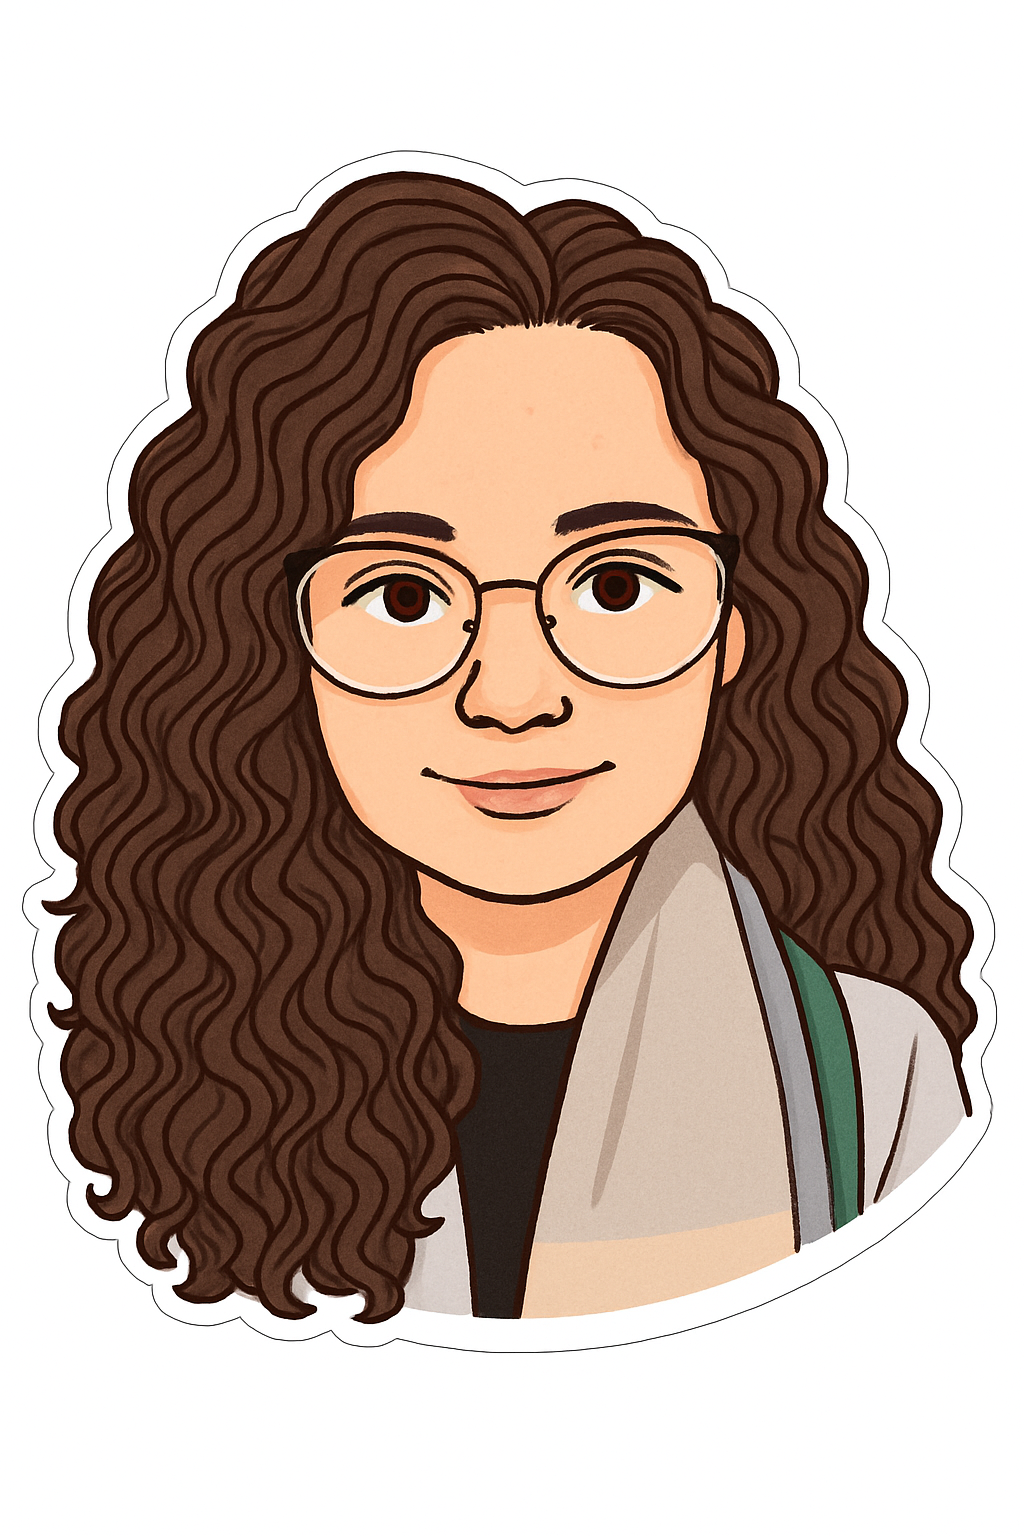
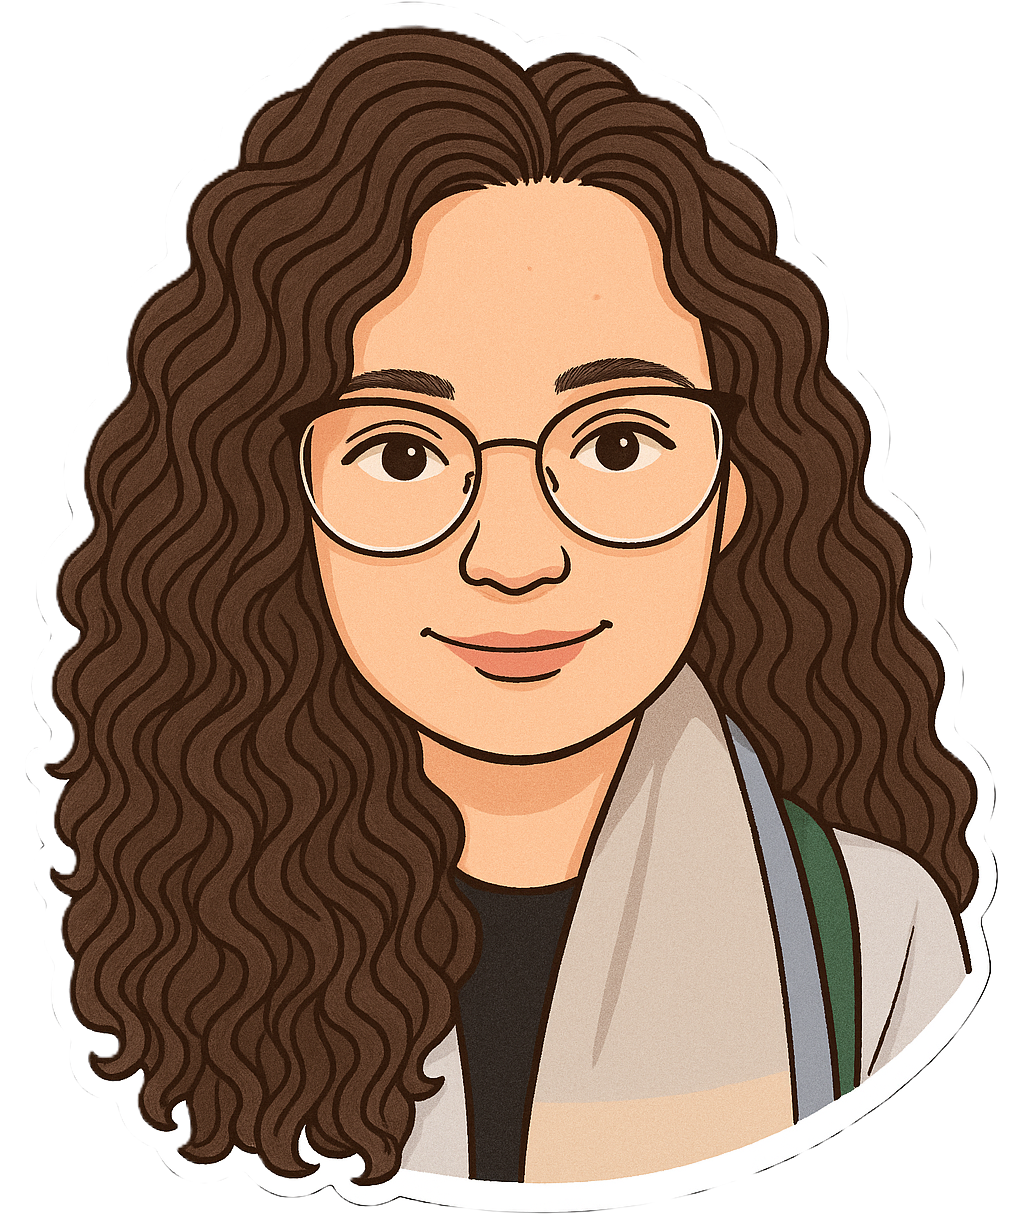
feat: add general css

diff --git a/index.html b/index.html
@@ -11,23 +11,27 @@
       <nav></nav>
     </header>
     <main>
-      <section id="picture">
+      <section id="picture" class="flex-container">
         <h1>Alessya Tkachenko, Ph.D.</h1>
-        <img src="images/picture.png" alt="My avatar generated by ChatGPT" />
+        <img
+          id="my-photo"
+          src="images/picture.png"
+          alt="My avatar generated by ChatGPT"
+        />
       </section>
       <section id="contacts">
         <h2 class="heading-small">Contacts</h2>
         <ul class="list">
           <li>
-            <img src="images/telegram.svg" alt="telegram icon" /><a
-              href="https://t.me/Berserk_bat"
-              >@Berserk_bat</a
+            <a class="contact-link" href="https://t.me/Berserk_bat">
+              <img class="icon" src="images/telegram.svg" alt="telegram icon" />
+              @Berserk_bat</a
             >
           </li>
           <li>
-            <img src="images/envelope.svg" alt="e-mail icon" /><a
-              href="mailto:tkachenko.alessya@gmail.com"
-              >tkachenko.alessya@gmail.com</a
+            <a class="contact-link" href="mailto:tkachenko.alessya@gmail.com"
+              ><img class="icon" src="images/envelope.svg" alt="e-mail icon" />
+              tkachenko.alessya@gmail.com</a
             >
           </li>
         </ul>
@@ -96,12 +100,13 @@
       </section>
     </main>
     <footer>
-      <a href="https://github.com/BerserkBat"
-        ><img src="images/github.svg" alt="GitHub logo" />My GitHub</a
+      <a class="contact-link" href="https://github.com/BerserkBat"
+        ><img class="icon" src="images/github.svg" alt="GitHub logo" />My
+        GitHub</a
       >
       <p>2025</p>
       <a href="https://rs.school/courses/javascript-ru">
-        <img src="images/rs-school-logo.svg" />
+        <img class="rs-logo" src="images/rs-school-logo.svg" />
       </a>
     </footer>
   </body>

diff --git a/style.css b/style.css
@@ -1,0 +1,96 @@
+@import url("https://fonts.googleapis.com/css2?family=Funnel+Sans:ital,wght@0,300..800;1,300..800&display=swap");
+
+body,
+p,
+div,
+section,
+a,
+img,
+header,
+footer,
+h1,
+h2,
+ul,
+li,
+nav {
+  padding: 0;
+  margin: 0;
+  font-family: "Funnel Sans", sans-serif;
+  font-style: normal;
+}
+
+a {
+  display: inline-block;
+}
+
+header,
+footer {
+  width: 100%;
+  height: 100px;
+  background-color: #b33951;
+  display: flex;
+  align-items: center;
+  gap: 50px;
+  justify-content: center;
+}
+
+main {
+  width: 900px;
+  margin: auto;
+  background-color: white;
+  padding: 30px 0;
+}
+
+#my-photo {
+  width: 200px;
+  height: auto;
+}
+
+.flex-container {
+  display: flex;
+  align-items: center;
+  gap: 100px;
+}
+
+h1 {
+  color: #b33951;
+  font-size: 50px;
+}
+
+h2 {
+  color: #b33951;
+  font-size: 40px;
+  width: 100%;
+  border-bottom: #b33951 2px solid;
+  padding: 10px 0;
+  text-transform: uppercase;
+}
+
+.icon {
+  width: 30px;
+  height: 30px;
+}
+
+.rs-logo {
+  height: 50px;
+}
+
+.contact-link {
+  display: flex;
+  align-items: center;
+  gap: 15px;
+}
+
+a {
+  text-decoration: none;
+  color: #1e1e18;
+}
+
+section {
+  color: #1e1e18;
+  font-size: 30px;
+}
+
+ul {
+  list-style-type: none;
+}
